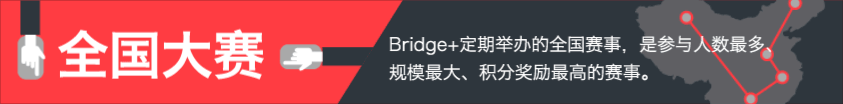
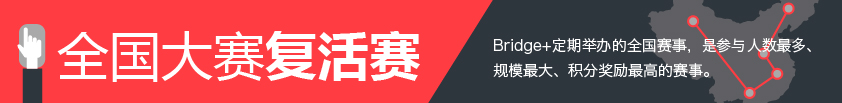
update image for 复活赛

diff --git a/public/css/gameui/menu.less b/public/css/gameui/menu.less
@@ -35,6 +35,13 @@
                 margin-top: -9px;
                 margin-left: 2.5px;
             }
+            i.icon.b-repechages {
+                background: url('../img/icon/repechages-active.png@{version}') no-repeat;
+                width: 32px;
+                height: 34px;
+                margin-top: -9px;
+                margin-left: 2.5px;
+            }
             i.icon.b-season {
                 background: url('../img/icon/season-active.png@{version}') no-repeat;
                 width: 32px;
@@ -74,6 +81,9 @@
             i.icon.b-national {
                 background: url('../img/icon/national.png@{version}') no-repeat;
             }
+            i.icon.b-repechages {
+                background: url('../img/icon/repechages.png@{version}') no-repeat;
+            }
             i.icon.b-record {
                 background: url('../img/icon/record.png@{version}') no-repeat;
             }
@@ -95,7 +105,7 @@
     padding-top: 0;
 }
 
-@media only screen and (min-width:768px) and (max-width:992px) {
+@media only screen and (min-width: 768px) and (max-width: 992px) {
     .game-ui {
         .ui.vertical.menu {
             .item {
